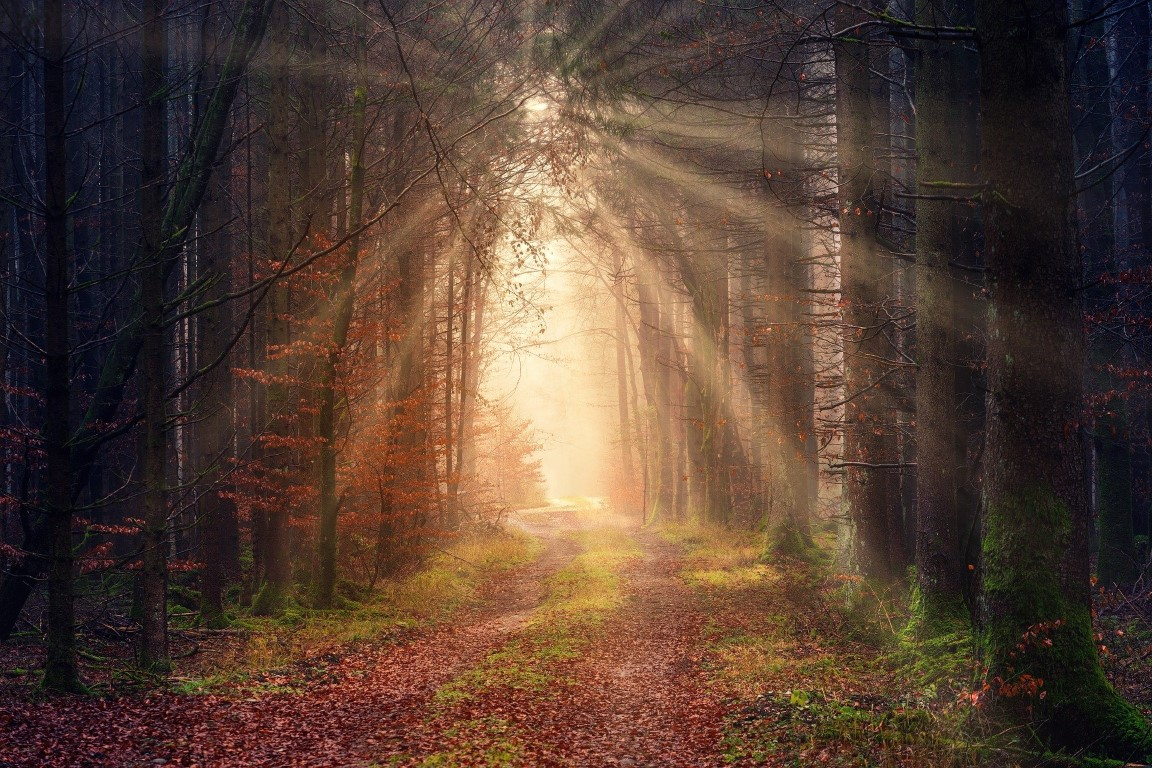
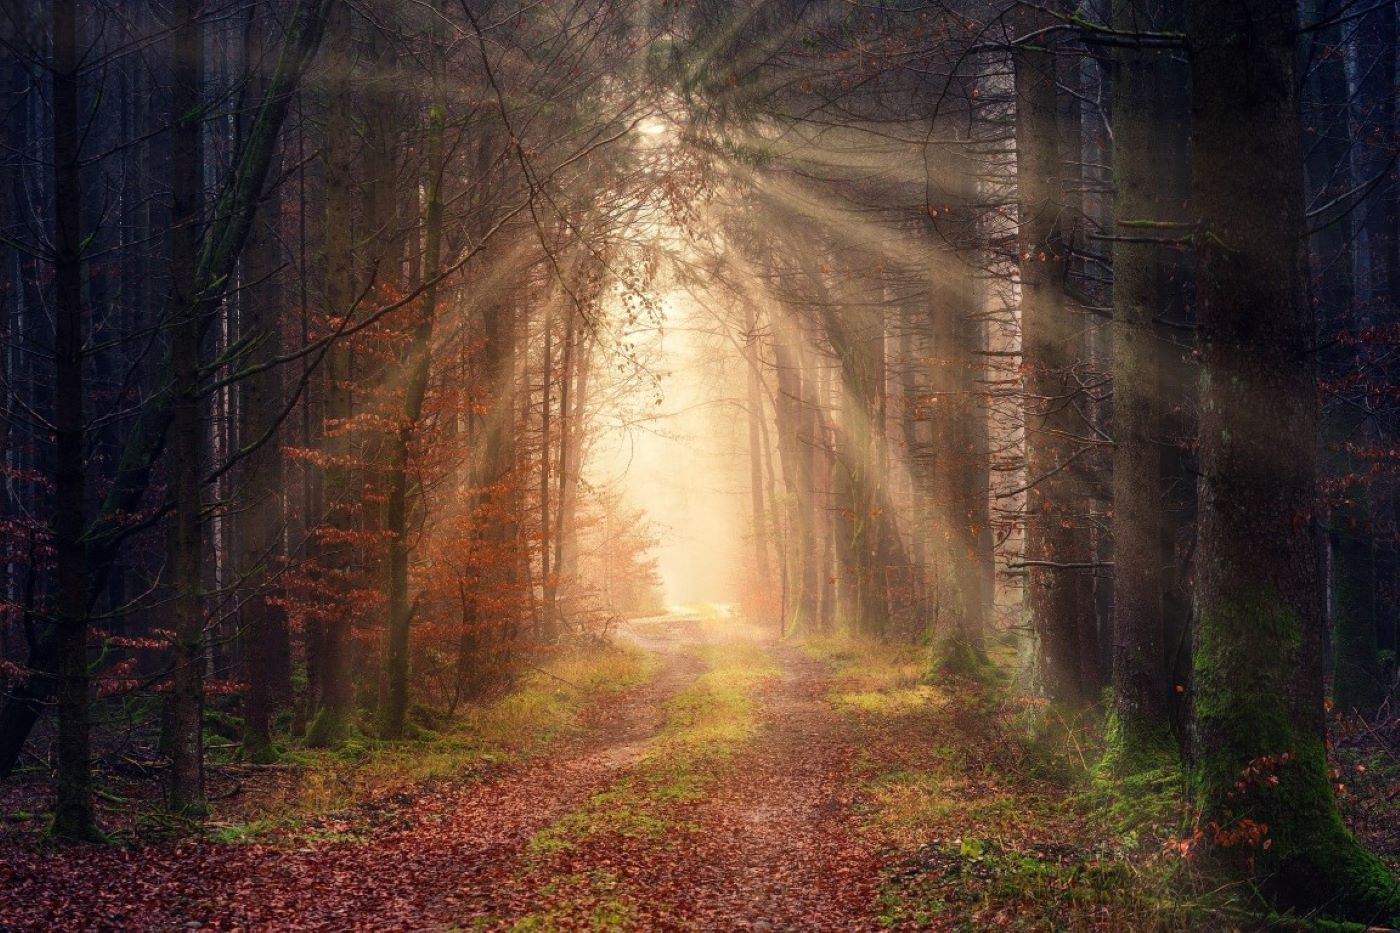
updates

diff --git a/style9.css b/style9.css
@@ -13,7 +13,7 @@
    
    .banner {
      height: 250px;
-     background-image: url("images/hope.jpg");
+     background-image: url("images/sunset.jpg");
      background-size: cover;
      background-position: center;
    }
@@ -22,7 +22,7 @@
      max-width: 1400px;
      margin: 0 auto;
      background-color: white;
-     background-image: url("images/hope.png");
+     background-image: url("images/sunset.png");
      background-repeat: repeat;
      background-size: cover;
      background-position: center;
@@ -45,4 +45,4 @@
    }
    
    .menu {
-     max-width: 2000px;
+     max-width: 1400px;

diff --git a/lesson9.html b/lesson9.html
@@ -8,7 +8,11 @@
 
    <body>
 <!--Lesson 9-->
-<center><div class="banner"></div></center>
+<center><div class="banner"> <img src="images/hope.jpg"
+          alt= "a picture of hope"
+          width= "1400"
+          height= "300"/>
+        </div></center>
 
 <div class="container">
   <div class="menu">
